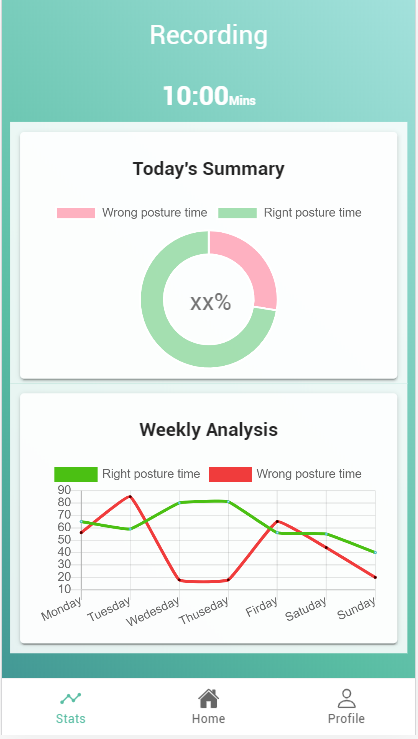
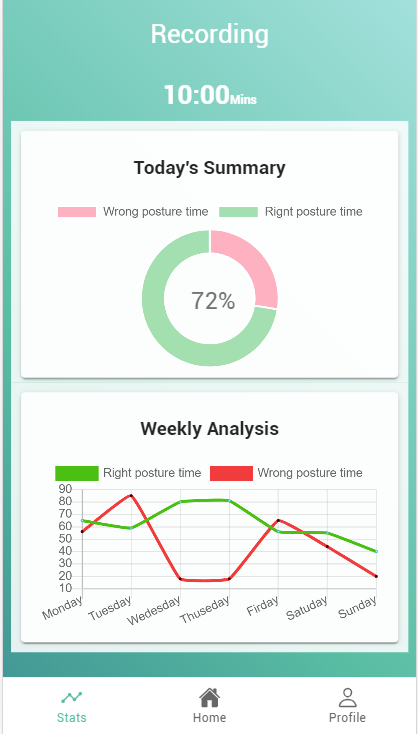
change xx% to number

diff --git a/sitUpFrontEnd/src/app/analysisTab/analysisTab.page.html b/sitUpFrontEnd/src/app/analysisTab/analysisTab.page.html
@@ -26,7 +26,7 @@
         <ion-card-title class="wcenter">Today's Summary</ion-card-title>
       </ion-card-header>
       <ion-card-content class="contentUp">
-        <span class="centerText">xx%</span>
+        <span class="centerText">72%</span>
         <canvas #doughnutCanvas id="doughnutCanvas"></canvas>
       </ion-card-content>
     </ion-card>
